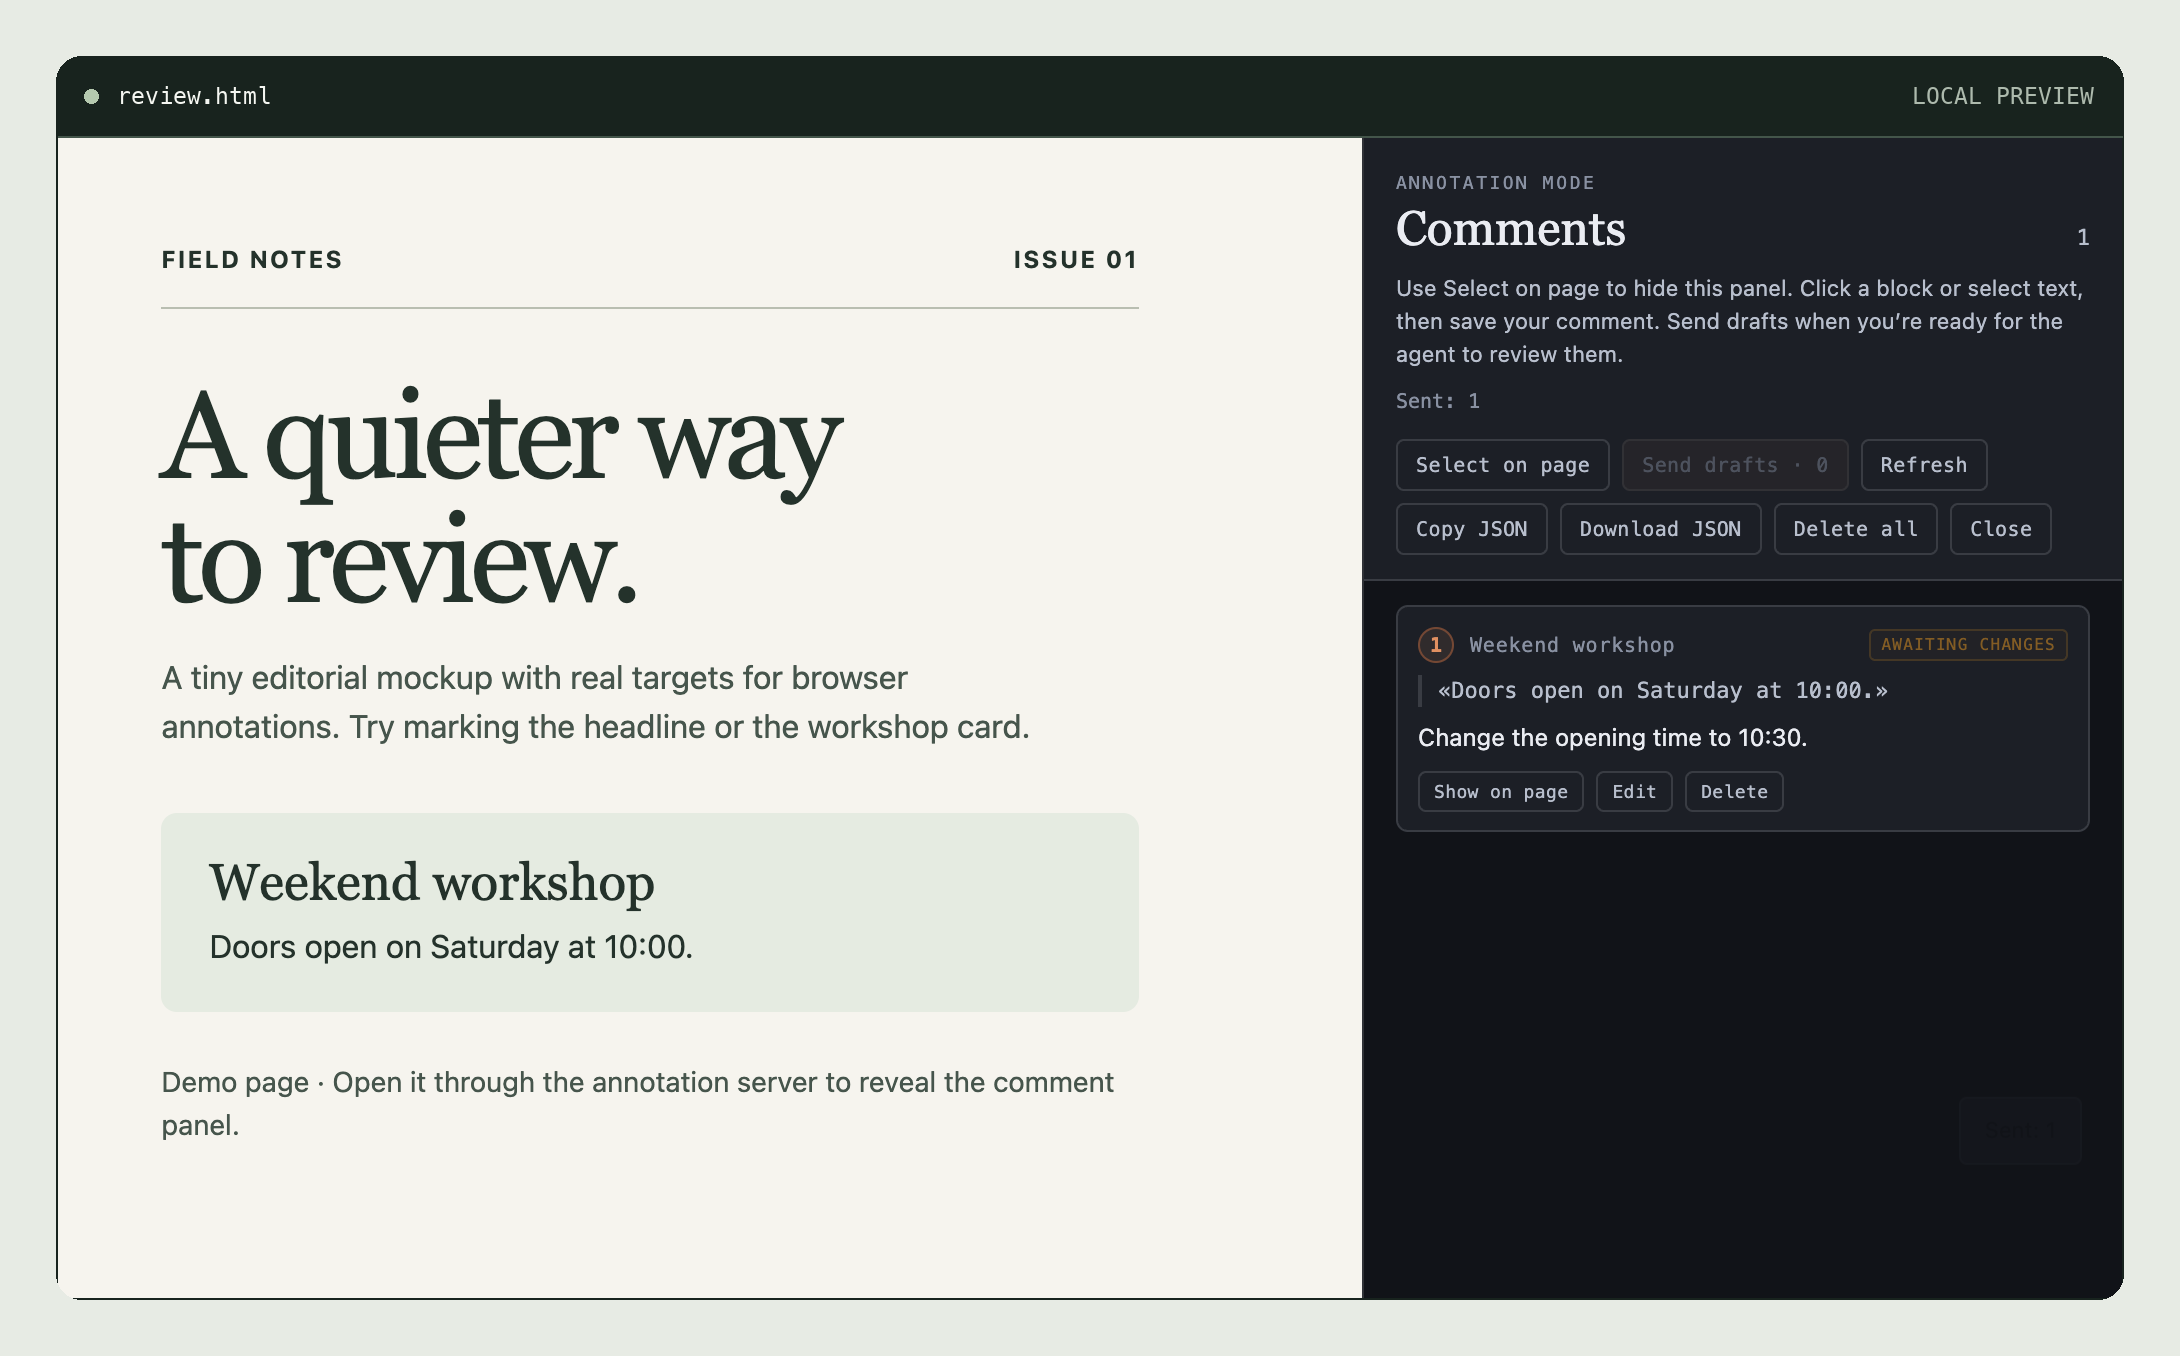
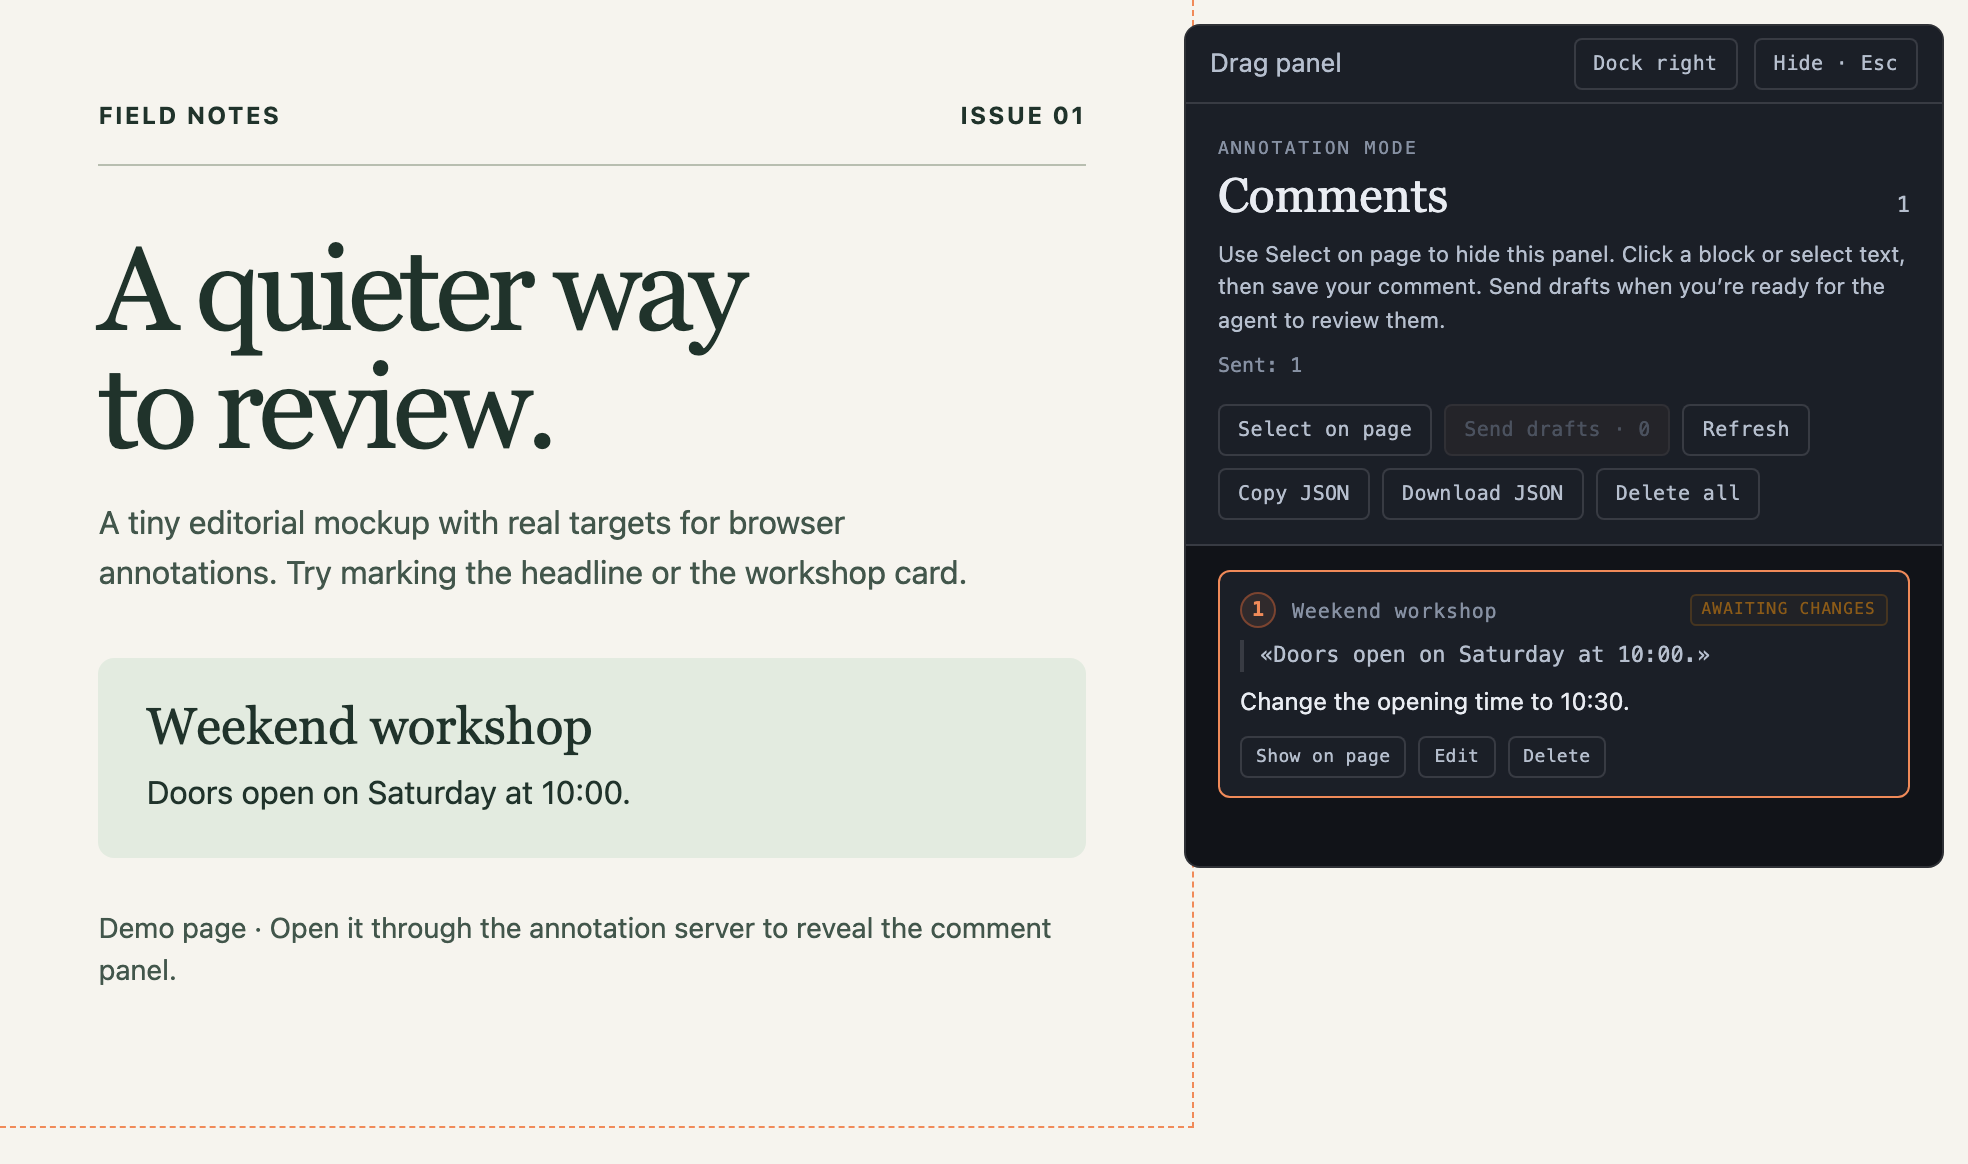
refresh the README preview of the floating panel
- Capture the Field Notes demo in Chromium after sending a workshop comment.
- Show the current drag, dock, and hide controls and update the image description.

diff --git a/README.md b/README.md
@@ -4,7 +4,7 @@
 
 [Requirements](#requirements) · [Install](#install) · [First review](#first-review) · [Try the demo](#try-the-demo)
 
-![A sample HTML page beside the annotation panel, showing a workshop-time comment waiting for a fix](assets/review.png)
+![Field Notes demo with a floating Comments panel showing Dock right, Hide · Esc, and a sent comment asking to change the workshop time](assets/review.png)
 
 The overlay is added when the page is served locally. It doesn't add scripts or styles to your source HTML.
 
